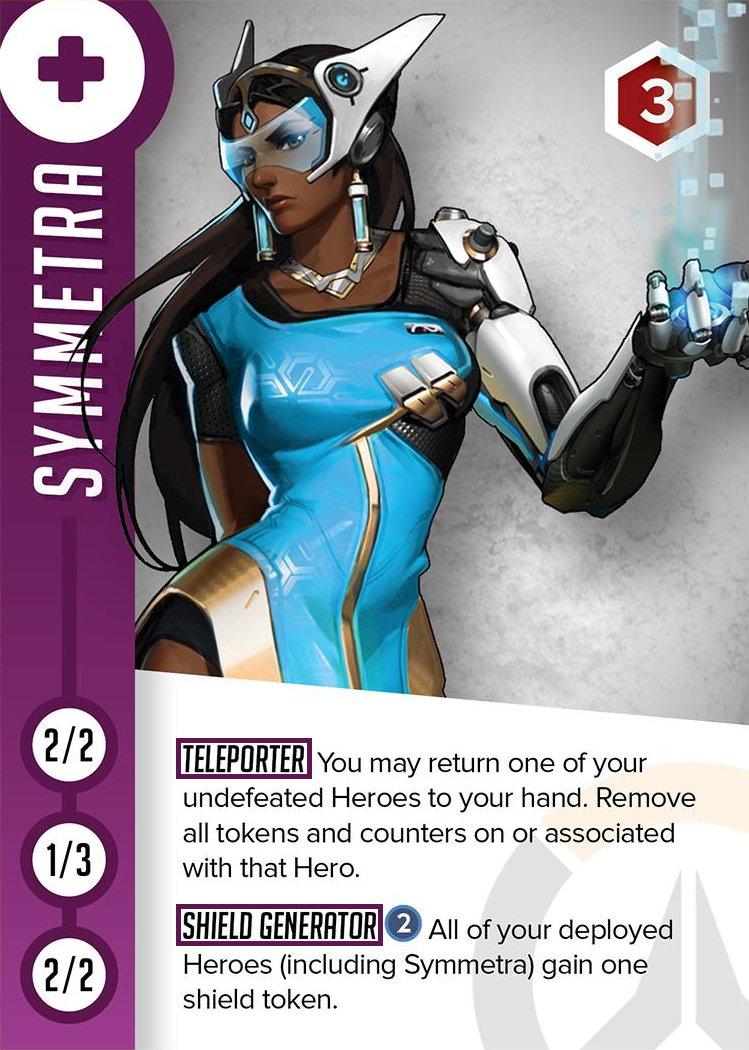
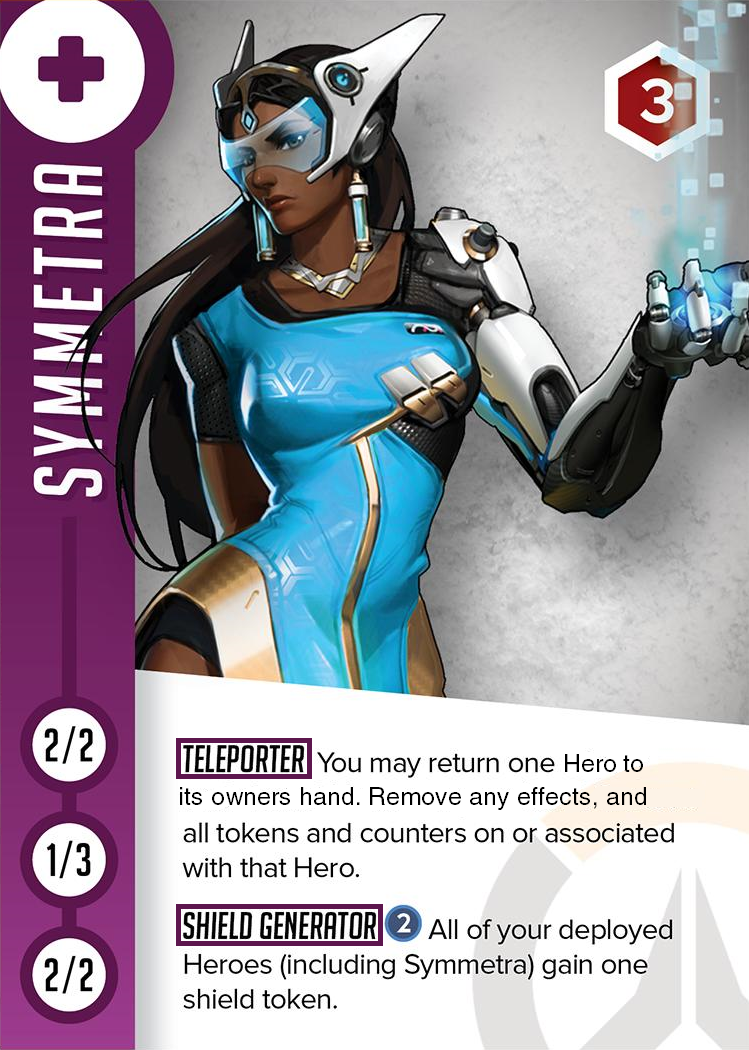
symmetra

Changed region(s): [[0.2457, 0.701, 0.9212, 0.7924]]

diff --git a/owcardgame/src/abilities/heroes/symmetra.js b/owcardgame/src/abilities/heroes/symmetra.js
@@ -1,0 +1,128 @@
+import { selectCardTarget } from '../engine/targeting';
+import { showMessage as showToast, clearMessage as clearToast } from '../engine/targetingBus';
+import { playAudioByKey } from '../../assets/imageImports';
+
+export async function onEnter({ playerHeroId, rowId }) {
+    const playerNum = parseInt(playerHeroId[0]);
+    
+    try {
+        playAudioByKey('symmetra-ability1');
+    } catch {}
+    
+    showToast('Symmetra: Select hero to return to hand');
+    const target = await selectCardTarget();
+    if (target) {
+        // Get the target hero's owner
+        const targetPlayerNum = parseInt(target.cardId[0]);
+        
+        // Check if target owner's hand is full (6 cards is the limit)
+        const targetHandId = `player${targetPlayerNum}hand`;
+        const targetHand = window.__ow_getRow?.(targetHandId);
+        if (targetHand && targetHand.cardIds && targetHand.cardIds.length >= 6) {
+            showToast('Symmetra: Target player\'s hand is full, cannot return hero');
+            setTimeout(() => clearToast(), 2000);
+            return;
+        }
+        
+        // Check if hero is undefeated (health > 0)
+        const targetCard = window.__ow_getCard?.(target.cardId);
+        if (!targetCard || targetCard.health <= 0) {
+            showToast('Symmetra: Can only target undefeated heroes');
+            setTimeout(() => clearToast(), 1500);
+            return;
+        }
+        
+        // Return hero to hand
+        window.__ow_dispatchAction?.({
+            type: 'return-hero-to-hand',
+            payload: { cardId: target.cardId, rowId: target.rowId }
+        });
+        
+        // Remove all tokens and counters
+        removeAllTokensAndCounters(target.cardId, target.rowId);
+        
+        showToast('Symmetra: Hero returned to hand, all effects removed');
+        setTimeout(() => clearToast(), 2000);
+    } else {
+        // Targeting was cancelled (right-click or other cancellation)
+        showToast('Symmetra: Teleporter cancelled');
+        setTimeout(() => clearToast(), 1500);
+    }
+}
+
+export function onUltimate({ playerHeroId, rowId, cost }) {
+    const playerNum = parseInt(playerHeroId[0]);
+    
+    try {
+        playAudioByKey('symmetra-ultimate');
+    } catch {}
+    
+    // Apply Shield Generator to all friendly deployed heroes
+    const friendlyRows = [`${playerNum}f`, `${playerNum}m`, `${playerNum}b`];
+    let heroesAffected = 0;
+    
+    friendlyRows.forEach(rowId => {
+        const row = window.__ow_getRow?.(rowId);
+        if (row && row.cardIds) {
+            row.cardIds.forEach(cardId => {
+                const card = window.__ow_getCard?.(cardId);
+                if (card && card.health > 0) {
+                    // Add 1 shield (respecting 3-shield maximum)
+                    const currentShield = card.shield || 0;
+                    const newShield = Math.min(currentShield + 1, 3);
+                    window.__ow_dispatchShieldUpdate?.(cardId, newShield);
+                    heroesAffected++;
+                }
+            });
+        }
+    });
+    
+    showToast(`Symmetra: Shield Generator activated - ${heroesAffected} heroes gained shields`);
+    setTimeout(() => clearToast(), 2000);
+}
+
+function removeAllTokensAndCounters(cardId, rowId) {
+    // Remove all card effects
+    const card = window.__ow_getCard?.(cardId);
+    if (card && Array.isArray(card.effects)) {
+        card.effects.forEach(effect => {
+            window.__ow_removeCardEffect?.(cardId, effect.id);
+        });
+    }
+    
+    // Remove all row effects created by this hero AND effects dependent on this hero
+    const allRows = ['1f', '1m', '1b', '2f', '2m', '2b'];
+    allRows.forEach(rowId => {
+        const row = window.__ow_getRow?.(rowId);
+        if (row) {
+            // Remove from ally effects - both created by this hero and dependent on this hero
+            if (row.allyEffects) {
+                const effectsToRemove = row.allyEffects.filter(effect => 
+                    effect?.sourceCardId === cardId || 
+                    effect?.dependentOnCardId === cardId ||
+                    effect?.targetCardId === cardId
+                );
+                effectsToRemove.forEach(effect => {
+                    window.__ow_removeRowEffect?.(rowId, 'allyEffects', effect.id);
+                });
+            }
+            
+            // Remove from enemy effects - both created by this hero and dependent on this hero
+            if (row.enemyEffects) {
+                const effectsToRemove = row.enemyEffects.filter(effect => 
+                    effect?.sourceCardId === cardId || 
+                    effect?.dependentOnCardId === cardId ||
+                    effect?.targetCardId === cardId
+                );
+                effectsToRemove.forEach(effect => {
+                    window.__ow_removeRowEffect?.(rowId, 'enemyEffects', effect.id);
+                });
+            }
+        }
+    });
+    
+    // Remove shield tokens from this hero
+    window.__ow_dispatchShieldUpdate?.(cardId, 0);
+}
+
+export default { onEnter, onUltimate };

diff --git a/owcardgame/src/App.js b/owcardgame/src/App.js
@@ -48,6 +48,7 @@ export const ACTIONS = {
     CLEANUP_SHIELD_BASH: 'cleanup-shield-bash',
     ADD_SPECIAL_CARD_TO_HAND: 'add-special-card-to-hand',
     RETURN_DVA_TO_HAND: 'return-dva-to-hand',
+    RETURN_HERO_TO_HAND: 'return-hero-to-hand',
     REPLACE_WITH_DVA: 'replace-with-dva',
     CLEANUP_DVA_SUITED_UP: 'cleanup-dva-suited-up',
     REMOVE_SPECIAL_CARD: 'remove-special-card',
@@ -576,6 +577,33 @@ function reducer(gameState, action) {
             });
         }
 
+        case ACTIONS.RETURN_HERO_TO_HAND: {
+            const { cardId, rowId } = action.payload;
+            const playerNum = parseInt(cardId[0]);
+            const playerKey = `player${playerNum}cards`;
+            const handId = `player${playerNum}hand`;
+
+            return produce(gameState, (draft) => {
+                // Find the card in the specified row
+                const row = draft.rows[rowId];
+                if (row && row.cardIds) {
+                    const index = row.cardIds.indexOf(cardId);
+                    if (index !== -1) {
+                        // Remove card from the row
+                        draft.rows[rowId].cardIds.splice(index, 1);
+                        
+                        // Add card to hand
+                        draft.rows[handId].cardIds.unshift(cardId);
+                        
+                        // Mark card as not played (so it can be dragged from hand)
+                        if (draft.playerCards[playerKey]?.cards?.[cardId]) {
+                            draft.playerCards[playerKey].cards[cardId].isPlayed = false;
+                        }
+                    }
+                }
+            });
+        }
+
         case ACTIONS.CLEANUP_DVA_SUITED_UP: {
             const { playerNum } = action.payload;
             const playerKey = `player${playerNum}cards`;
@@ -957,6 +985,10 @@ function checkOnEnterAbilities(playerHeroId, rowId, playerNum) {
     }
     if (heroId === 'sombra' && abilitiesIndex?.sombra?.onEnter) {
         abilitiesIndex.sombra.onEnter({ playerHeroId, rowId });
+        return;
+    }
+    if (heroId === 'symmetra' && abilitiesIndex?.symmetra?.onEnter) {
+        abilitiesIndex.symmetra.onEnter({ playerHeroId, rowId });
         return;
     }
     if (heroId === 'torbjorn' && abilitiesIndex?.torbjorn?.onEnter) {
@@ -1965,6 +1997,13 @@ export default function App() {
             abilitiesIndex.sombra.onUltimate({ playerHeroId, rowId, cost: adjustedCost });
         } catch (e) {
             console.log('Error executing SOMBRA ultimate:', e);
+        }
+    } else if (heroId === 'symmetra' && abilitiesIndex?.symmetra?.onUltimate) {
+        try {
+            window.__ow_trackUltimateUsed?.(heroId, 'Symmetra', 'Shield Generator', playerNum, rowId, adjustedCost);
+            abilitiesIndex.symmetra.onUltimate({ playerHeroId, rowId, cost: adjustedCost });
+        } catch (e) {
+            console.log('Error executing SYMMETRA ultimate:', e);
         }
     } else if (heroId === 'torbjorn' && abilitiesIndex?.torbjorn?.onUltimate) {
         try {

diff --git a/owcardgame/src/components/cards/Card.js b/owcardgame/src/components/cards/Card.js
@@ -16,6 +16,7 @@ import { heroCardImages } from '../../assets/imageImports';
 import ContextMenu from './ContextMenu';
 import actionsBus, { Actions } from '../../abilities/engine/actionsBus';
 import effectsBus, { Effects } from '../../abilities/engine/effectsBus';
+import data from 'data';
 
 export default function Card(props) {
     // Context
@@ -80,9 +81,18 @@ export default function Card(props) {
                 const currentRow = gameState.rows[rowId];
                 const currentSynergy = currentRow ? currentRow.synergy : 0;
                 
-                // Get ultimate cost from hero data
-                const heroData = gameState.playerCards[playerCardsId]?.cards?.[playerHeroId];
-                const ultimateCost = heroData?.ultimateCost || 3; // Default to 3 if not specified
+                // Get ultimate cost from hero.json data
+                const heroId = playerHeroId.slice(1);
+                const heroJsonData = data.heroes[heroId];
+                
+                // Parse ultimate cost from description text like "Shield Generator (2)"
+                let ultimateCost = 3; // Default to 3 if not specified
+                if (heroJsonData?.ultimate) {
+                    const match = heroJsonData.ultimate.match(/\((\d+)\)/);
+                    if (match) {
+                        ultimateCost = parseInt(match[1]);
+                    }
+                }
                 
                 actionsBus.publish(Actions.requestUltimate(playerHeroId, rowId, ultimateCost));
                 setMenu(null);

diff --git a/owcardgame/src/assets/imageImports.js b/owcardgame/src/assets/imageImports.js
@@ -270,6 +270,11 @@ import tracerIntro from './audio/tracer-intro.mp3';
 import turretEnter from './audio/turret-enter.mp3';
 import turretFire from './audio/turret-fire.mp3';
 import symmetraShield from './audio/symmetra-shield.mp3';
+import symmetraEnter from './audio/symmetra-enter.mp3';
+import symmetraIntro from './audio/symmetra-intro.mp3';
+import symmetraAbility1 from './audio/symmetra-ability1.mp3';
+import symmetraTeleporter from './audio/symmetra-teleporter.mp3';
+import symmetraUltimate from './audio/symmetra-ultimate.mp3';
 import widowmakerOneshot from './audio/widowmaker-oneshot.mp3';
 import widowmakerWidowskiss from './audio/widowmaker-widowskiss.mp3';
 import winstonAngry from './audio/winston-angry.mp3';
@@ -473,6 +478,11 @@ export const abilityAudioFiles = {
     'turret-enter': turretEnter,
     'turret-fire': turretFire,
     'symmetra-shield': symmetraShield,
+    'symmetra-enter': symmetraEnter,
+    'symmetra-intro': symmetraIntro,
+    'symmetra-ability1': symmetraAbility1,
+    'symmetra-teleporter': symmetraTeleporter,
+    'symmetra-ultimate': symmetraUltimate,
     'widowmaker-oneshot': widowmakerOneshot,
     'widowmaker-widowskiss': widowmakerWidowskiss,
     'winston-angry': winstonAngry,

diff --git a/owcardgame/src/abilities/index.js b/owcardgame/src/abilities/index.js
@@ -31,6 +31,7 @@ import roadhog from './heroes/roadhog';
 import sigma from './heroes/sigma';
 import soldier from './heroes/soldier';
 import sombra from './heroes/sombra';
+import symmetra from './heroes/symmetra';
 import torbjorn from './heroes/torbjorn';
 import tracer from './heroes/tracer';
 import turret from './heroes/turret';
@@ -65,6 +66,7 @@ export const abilities = {
     sigma,
     soldier,
     sombra,
+    symmetra,
     torbjorn,
     tracer,
     turret,
